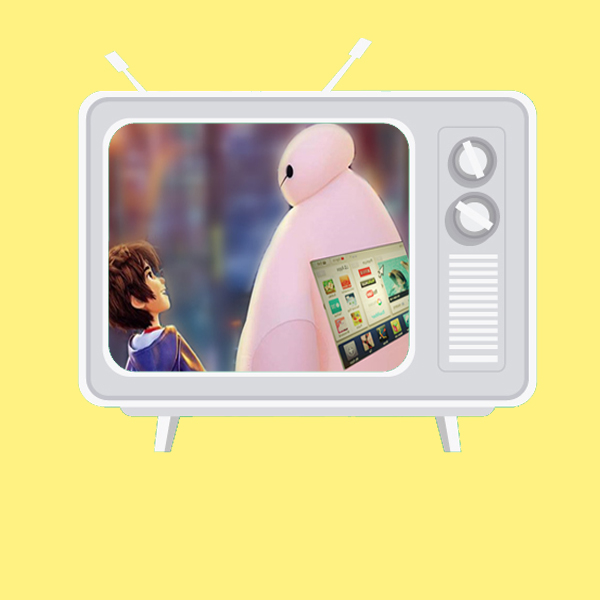
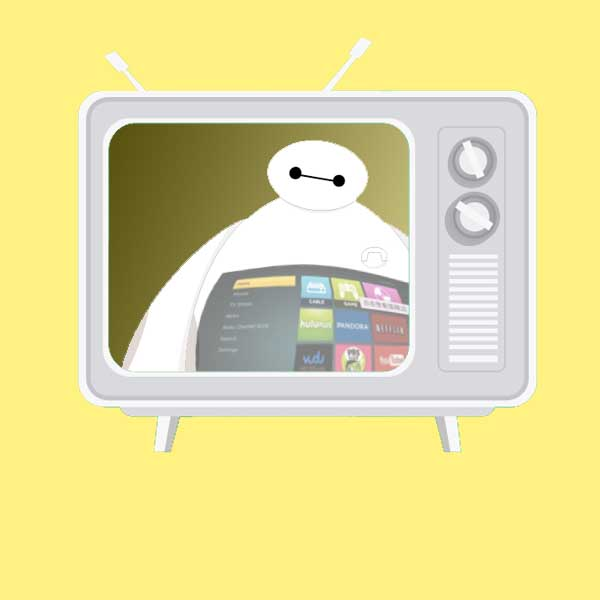
bodymirror

diff --git a/project_bm.html b/project_bm.html
@@ -1,0 +1,78 @@
+<!DOCTYPE html>
+<html>
+<head>
+<meta charset="utf-8"/>
+	<meta name="viewport" content="width=device-width, initial-scale=1, maximum-scale=1, user-scalable=no" />
+	<title>HCI Project-BodyMirror</title>
+	<!-- Styles -->
+	<link rel="stylesheet" href="css/style.css" />
+	<link rel="stylesheet" href="css/font-awesome.min.css" />
+	<!-- Scripts -->
+	<script src="js/jquery.js"></script>
+
+	<script src="js/scroll.js"></script>
+	<script src="js/main.js"></script>
+	<!-- Favicon -->
+	<link rel="shortcut icon" href="images/favicon.ico" /> 
+	
+</head>
+<body class="fade-in cmon">
+		<div id="back">
+		<a href="index.html"> < Home
+		</a>		
+		</div>
+	<section class="bm" id="about">
+		<div class="container_small">
+			<h2 class="section_title">BodyMirror - Smart TV interaction</h2>
+			<p>UX Research, 2015.3</p>			
+		</div>
+	</section>
+
+	<section>
+		<div class="main_intro">
+			<p>To build a design principle, I initiatively selected the HCI class for computer science majors,</br> during which I equipped myself with graphical user interface principles and Fitts’ Law, </br>among others. </p>
+			<p>In the process of completing the course project of designing a new interaction means with smart TV, </br>I made significant contributions to the formation of an innovative idea. </p>
+			<p>Inspired by Dr. Harrison’s OmniTouch project and BayMax,</br> I proposed making users utilize an image of their body as an input touch screen </br>to interact with displays of smart TV, named as “BodyMirror.”</p>
+		</div>
+	</section>
+
+	<section>
+		<div class="det_intro">
+			<h3>introduction</h3>
+			<p>BodyMirror regards a user's torso as a multi-touch input surface mirrored from the remote display. </br>Users use their fingers to interact on the torso surface just as they do on a real physical touch screen. </p>
+			<img src="images/bm1.png">
+			<p>The “mirror” depicts the spatial correspondence between the display and our torso: </br>for example,</br> a target on the upper left of the display corresponds to the location near our left shoulder.</br> After spotting a target of interest on the display, </br>a user mentally translates the target to the corresponding position on her torso. </br>Then, she moves her finger onto the torso surface via kinesthetic perception, </br>and adjusts by tactile feedback to estimate the target position. </br>The last contact point specifies the final hit location.</p>
+			
+			<div class="twoImage">
+			<img src="images/bm2.png"><img src="images/bm3.png">
+			<span>Single Mode</span><span>With Families</span>
+			</div>
+
+			<h3>design</h3>
+			
+			<p>BodyMirror provides an intuitive, lightweight solution to eyes-free indirect touch. </br>Human’s torso is an appropriate area for touch interactions , </br>with a large available input surface and small movement compared to other parts of body.</br> Users are allowed to do a single- or double- tap to target, drag to move, pinch to scale </br>and perform bimanual gestures. </br>In addition, users can always maintain their visual attention on the display, achieving a smooth interaction experience. </p>
+			<img src="images/bm4.jpg">
+
+
+			<h3>development</h3>
+			<p>To recognize the movement, we built a depth–skin mixture model </br>from the data sensed by Kinect to distract hands and fingers from background graph. </p>
+			<img src="images/bm5.jpg">
+
+			<h3>end</h3>
+		</div>
+	</section>
+
+<footer>
+		<div class="container_footer">
+			<div class="left">
+				<a href="app_bk.html"><i class="fa fa-long-arrow-left"></i> BeatKcal - Diet Helper </a>
+			</div>
+			<div class="right">
+				<a href="research_ex.html">Exercise & Well-being & Tweets <i class="fa fa-long-arrow-right"></i></a>
+			</div>
+		</div>
+</footer>
+
+
+</body>
+</html>

diff --git a/css/style.css b/css/style.css
@@ -501,7 +501,7 @@ footer a:hover { color: #a67d4a }
 
 /* Height */
 @media (max-height: 568px) {
-	#welcome { height: 100vh; }
+	#welcome { height: 100px}
 }
 
 #mi{
@@ -1355,7 +1355,7 @@ Javascript disabled
 }
 .bm{
 	background-image: url(../images/bm-top.png);
-	background-color: rgb(130,127,77);
+	background-color: rgb(101,96,60);
 }
 .bm h2{
 	color: #fff;

diff --git a/app_bk.html b/app_bk.html
@@ -24,7 +24,7 @@
 	<section class="bk" id="about">
 		<div class="container_small">
 			<h2 class="section_title">BeatKcal - Diet Helper</h2>
-			<p>Lead & App Design, 2015.6 </p>			
+			<p>Lead & App Design, 2015.5 </p>			
 		</div>
 	</section>
 
